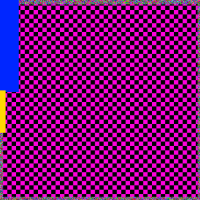
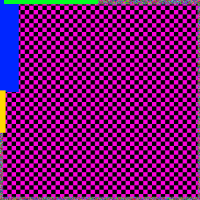
wip

Changed region(s): [[0.0, 0.0, 0.51, 0.03]]

diff --git a/main.py b/main.py
@@ -20,13 +20,13 @@ def GetRangeRgb(image, pxfrom, pxto, axis, stable):
 
 def UpdateCoordinatesFromBestSide(anchor, image, val):
     if val[2] == 'r':
-        image.topleft = [anchor.topright[0], (anchor.topright[1] - image.image.height) + val[1]]
+        image.topleft = [anchor.topright[0], anchor.topleft[1] - image.image.height + val[1]]
     if val[2] == 'l':
         image.topleft = [anchor.topleft[0] - image.image.width, anchor.topleft[1] - image.image.height + val[1]]
     if val[2] == 'b':
         image.topleft = [anchor.bottomleft[0] - image.image.width + val[1], anchor.bottomleft[1]]
     if val[2] == 't':
-        image.topleft = [anchor.topleft[0] - image.image.width + val[1], anchor.topleft[1]]
+        image.topleft = [anchor.topleft[0] - image.image.width + val[1], anchor.topleft[1] - image.image.height]
     image.UpdatePosition()
 
 class pieceImage:
@@ -43,18 +43,23 @@ class pieceImage:
 
         if anchor:
             self.topleft = [int(IMG_WIDTH/2 - self.image.width / 2), int(IMG_HEIGHT/2 - self.image.height / 2)]
+            PlacePointOnCanvas(self.topleft)
             self.bottomleft = [self.topleft[0], self.topleft[1] + self.image.height]
+            PlacePointOnCanvas(self.bottomleft)
             self.topright = [self.topleft[0] + self.image.width, self.topleft[1]]
+            PlacePointOnCanvas(self.topright)
             self.bottomright = [self.topright[0], self.bottomleft[1]]
+            PlacePointOnCanvas(self.bottomright)
             TAKEN_POINTS_POLYS.append(Polygon([(self.topleft),(self.bottomleft),(self.topright),(self.bottomright)]))        
         else:
             self.topleft = ["False", "False"]
 
     def UpdatePosition(self):
-            self.bottomleft = [self.topleft[0], self.topleft[0] + self.image.height]
-            self.topright = [self.topleft[0] + self.image.width, self.topleft[0]]
+            self.bottomleft = [self.topleft[0], self.topleft[1] + self.image.height]
+            self.topright = [self.topleft[0] + self.image.width, self.topleft[1]]
             self.bottomright = [self.topright[0], self.bottomleft[1]]
             TAKEN_POINTS_POLYS.append(Polygon([(self.topleft),(self.bottomleft),(self.topright),(self.bottomright)]))
+            print("Appending to TAKEN_POINTS_POLYS for",self.name)
 
 
 
@@ -62,26 +67,24 @@ class pieceImage:
 one = pieceImage("images/1.png", "anchor")
 two = pieceImage("images/2.png")
 three = pieceImage("images/3.png")
+four = pieceImage("images/4.png")
 
 onetwo = findbest.FindBestAll(one, two)
-
-
-
-
-
 print(onetwo)
-
 UpdateCoordinatesFromBestSide(one, two, onetwo)
-two.UpdatePosition()
 
-twothree = findbest.FindBestAll(two, three, True)
+twothree = findbest.FindBestAll(two, three)
 UpdateCoordinatesFromBestSide(two, three, twothree)
-three.UpdatePosition()
+print(twothree)
 
+threefour = findbest.FindBestAll(three, four)
+UpdateCoordinatesFromBestSide(three, four, threefour)
+print(threefour)
 
-PlaceOnCanvas(one)
-PlaceOnCanvas(two)
-PlaceOnCanvas(three)
+PlaceOnCanvas(one, True)
+PlaceOnCanvas(two, True)
+PlaceOnCanvas(three, True)
+PlaceOnCanvas(four, True)
 start = timer()
 CANVAS.save("canvas.png")
 elapsed_time = round(timer(), 2)

diff --git a/findbest.py b/findbest.py
@@ -56,8 +56,8 @@ def FindBestMatch(image1, image2, currentSide, anchorImg, placeImg, debug=False)
 
         if debug:
             if not imageconstruct.ValidPlacement(tempTopLeft, placeImg.image.width, placeImg.image.height):
-                print("invalid placement", currentSide)
-                print(tempTopLeft,"is temptopleft")
+                #print("invalid placement", currentSide)
+                #print(tempTopLeft,"is temptopleft")
                 imageconstruct.PlacePointOnCanvas(tempTopLeft)
             else:
                 imageconstruct.PlacePointOnCanvas(tempTopLeft, 2)
@@ -66,13 +66,13 @@ def FindBestMatch(image1, image2, currentSide, anchorImg, placeImg, debug=False)
         similarity_score_temp = SimilarityOfRange(image1[i:i+len(image2)], image2)
         similarity_history.append(similarity_score_temp)
 
-        if similarity_score_temp > similarity_max[0]:
+        if similarity_score_temp > similarity_max[0] and imageconstruct.ValidPlacement(tempTopLeft, placeImg.image.width, placeImg.image.height):
             similarity_max[0] = similarity_score_temp
             similarity_max[1] = i
 
         i += 1
 
-    if debug:
+    if debug and True == False:
         title = "Line graph for "+currentSide+" side of "+anchorImg.name
         x = np.arange(0,i)
         y = similarity_history

diff --git a/imageconstruct.py b/imageconstruct.py
@@ -8,8 +8,7 @@ CANVAS = Image.new(mode="RGB", size=(IMG_WIDTH, IMG_HEIGHT))
 
 TAKEN_POINTS_POLYS = []
 
-def PlaceOnCanvas(image):
-    CANVAS.paste(image.image, tuple(image.topleft))
+
 
 def ValidPlacement(origin, width, height):
     for polygon in TAKEN_POINTS_POLYS:
@@ -24,3 +23,11 @@ pointImageTwo = Image.open("images/point2.png")
 
 def PlacePointOnCanvas(coords, style=1):
     CANVAS.paste(pointImageTwo if style==2 else pointImage, tuple(coords))
+
+def PlaceOnCanvas(image, debug=False):
+    CANVAS.paste(image.image, tuple(image.topleft))
+    if debug:
+        PlacePointOnCanvas(image.topleft)
+        PlacePointOnCanvas(image.bottomleft)
+        PlacePointOnCanvas(image.topright)
+        PlacePointOnCanvas(image.bottomright)
